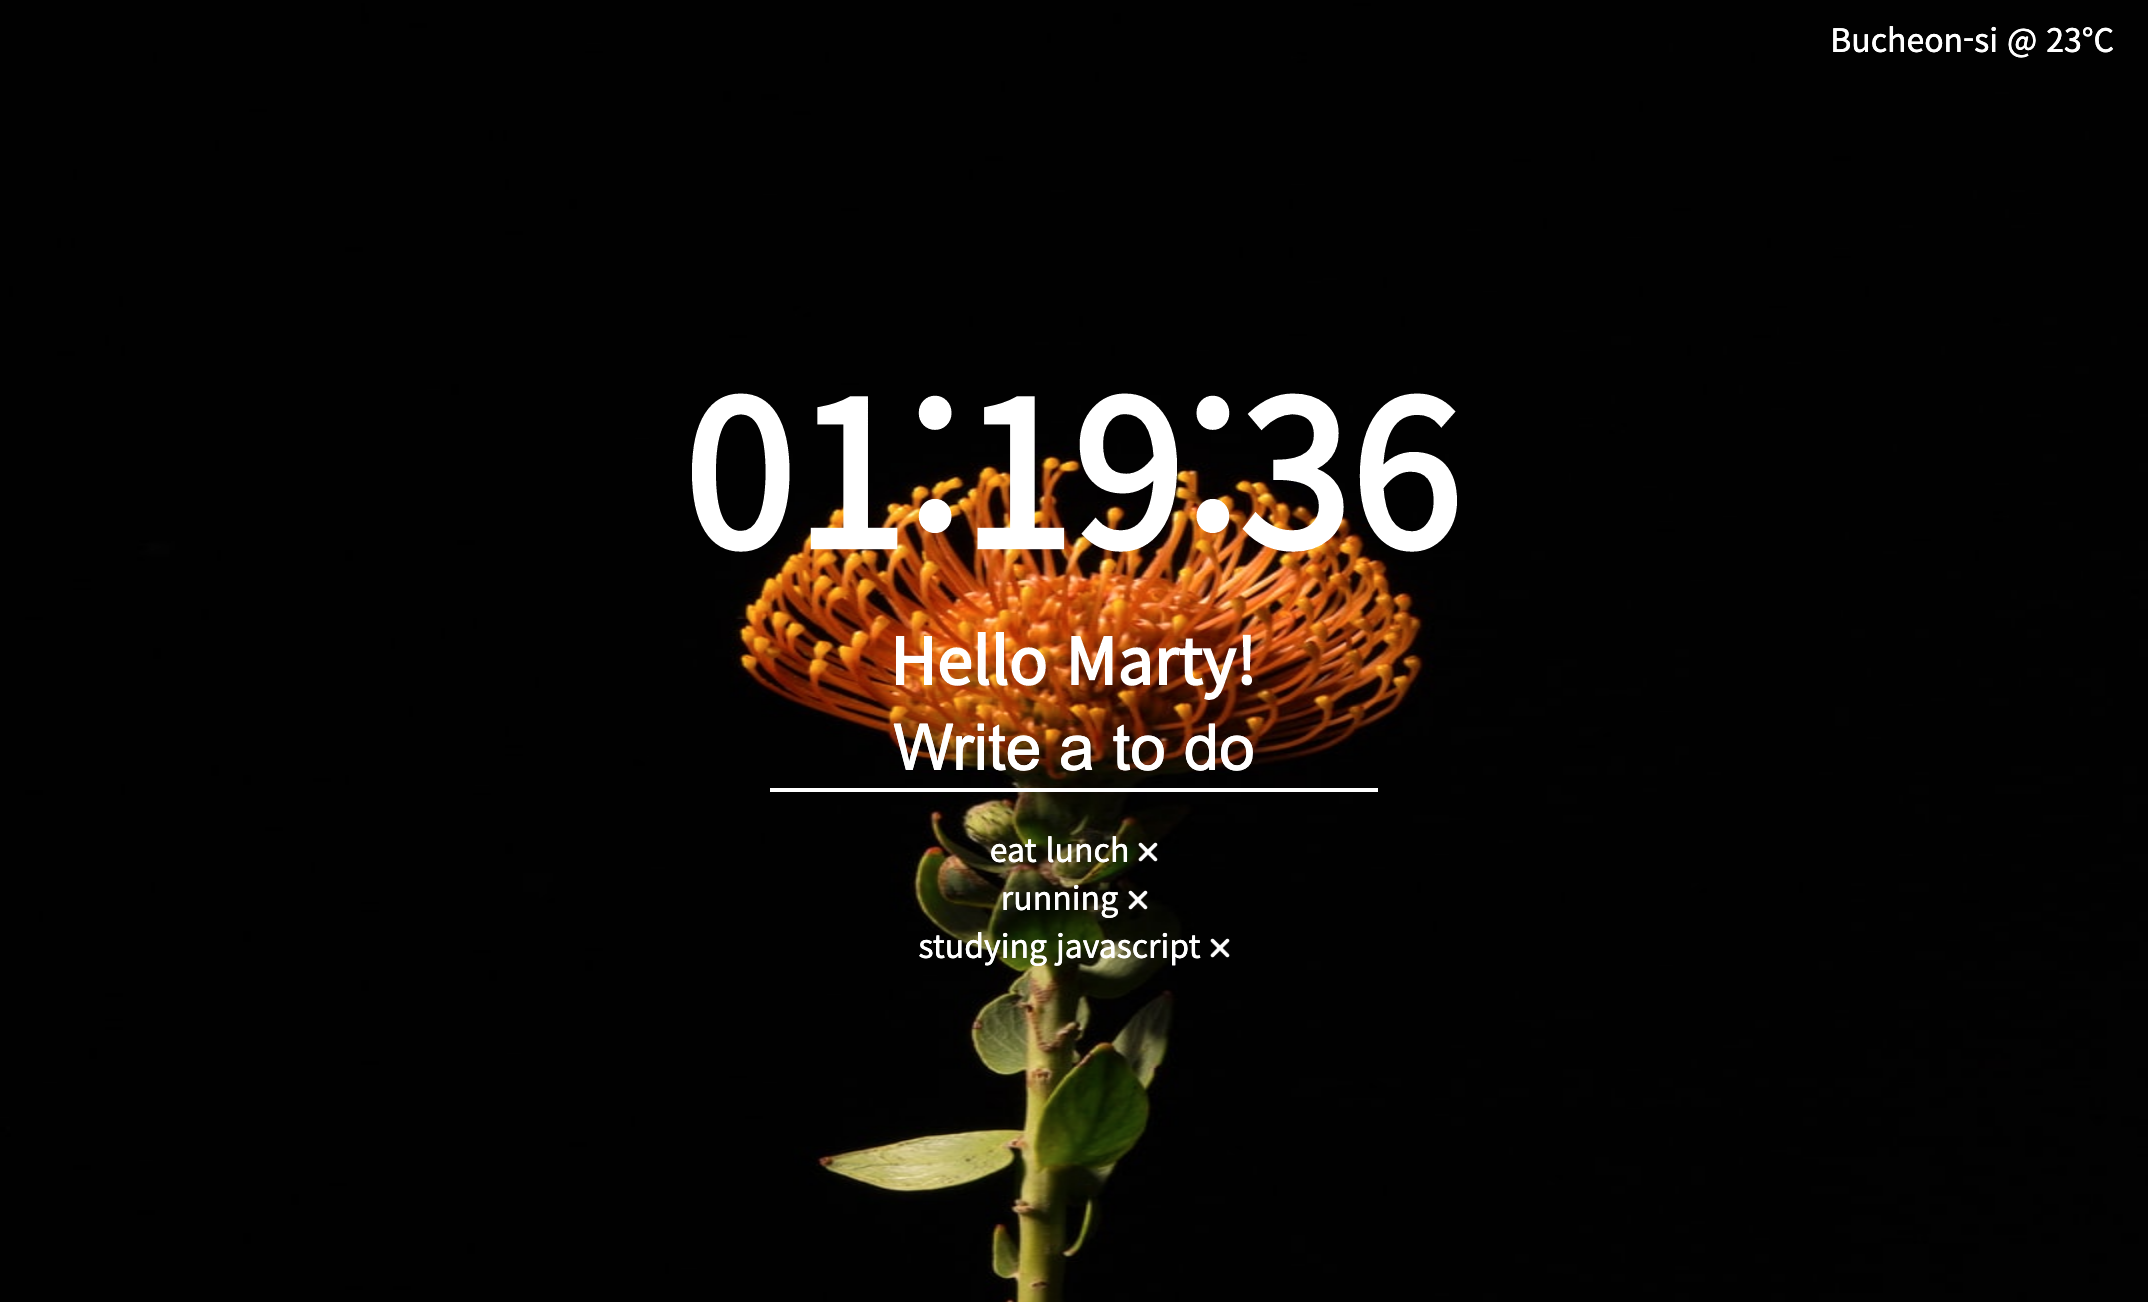
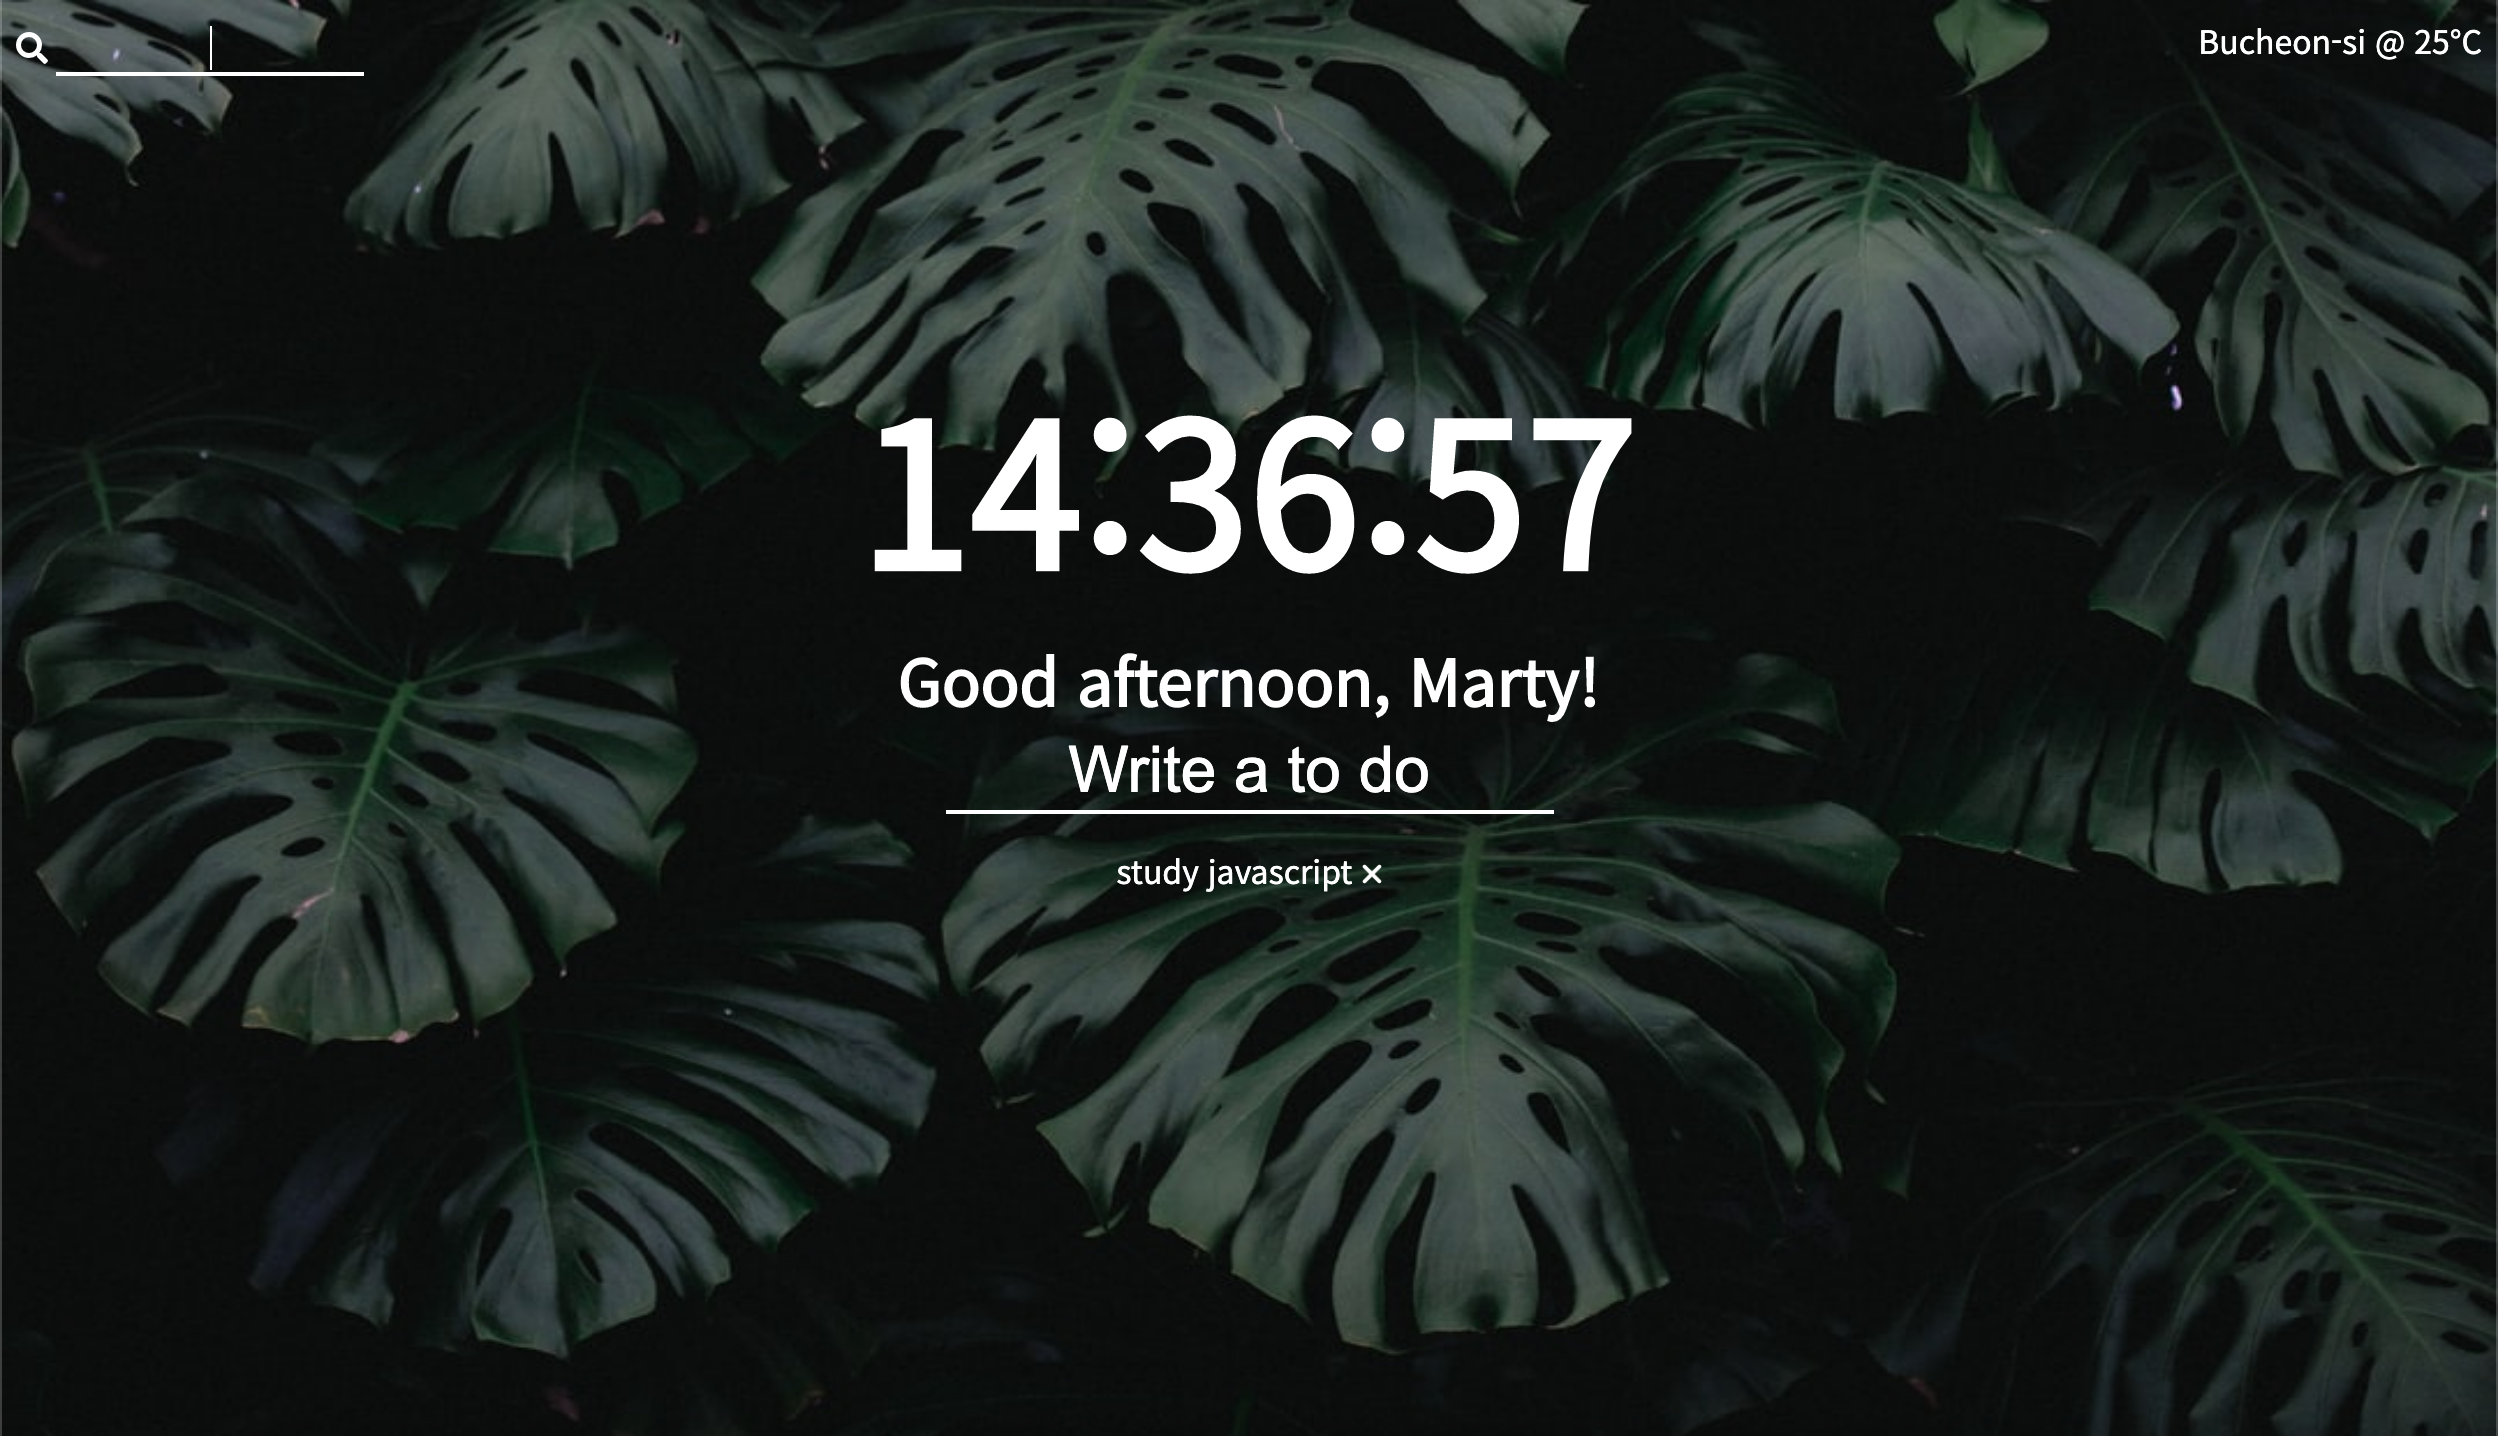
add search

diff --git a/js/search.js b/js/search.js
@@ -1,0 +1,79 @@
+const search = document.querySelector(".js-search"),
+      searchInput = search.querySelector("input"),
+      searchIcon = document.querySelector(".js-search-icon");
+     
+
+const OPACITY = "opacity",  
+     UN_OPACITY = "unopacity",
+     DO_OPACITY = "do_opacity";
+
+let  iconTarget; //다른 body 영역 클릭과 비교하기 위해서 삽입 , 여기에는 js-search-icon 태그가 들어감
+
+function handleSearch(event){
+    event.preventDefault(); 
+    const searchValue = searchInput.value;
+    location.href = `https://www.google.com/search?q=${searchValue}`; //search by google
+}
+
+function handleCloseSearch(event){
+
+    event.preventDefault();
+
+    let target = event.target;
+ 
+    if( iconTarget !== target && searchInput.classList.contains(DO_OPACITY)){
+
+        searchInput.classList.remove(DO_OPACITY);
+        searchInput.classList.add(OPACITY);
+
+    }
+           
+}
+
+
+function handleSearchBar(event){ //show textbox (opacity 0.4)
+
+    event.preventDefault(); 
+    searchInput.classList.remove(OPACITY);
+    searchInput.classList.add(UN_OPACITY);
+ 
+}
+
+function handleUnSearch(event){ //hide textbox
+
+    event.preventDefault(); 
+    searchInput.classList.remove(UN_OPACITY);
+    searchInput.classList.add(OPACITY);
+   
+}
+
+function handleClickSearch(event){ //click search icon (opacity : 1)
+
+    event.preventDefault();
+    searchInput.classList.remove(UN_OPACITY);
+    searchInput.classList.add(DO_OPACITY);
+    searchInput.focus();
+
+    iconTarget = event.currentTarget;
+
+
+}
+
+function searchData(){
+
+    searchIcon.addEventListener("mouseover", handleSearchBar);
+    searchIcon.addEventListener("mouseout", handleUnSearch);
+    searchIcon.addEventListener("click", handleClickSearch); 
+    
+    search.addEventListener("submit", handleSearch);
+    body.addEventListener("click", handleCloseSearch);
+
+}
+
+function init(){
+
+    searchData();
+
+}
+
+init();

diff --git a/index.html b/index.html
@@ -9,12 +9,26 @@
 
   
     <link href="https://fonts.googleapis.com/css2?family=Noto+Sans+KR&display=swap" rel="stylesheet">
+    <link rel="stylesheet" href="https://cdnjs.cloudflare.com/ajax/libs/font-awesome/5.8.2/css/all.min.css"/>
     <link rel="stylesheet" href="/css/style.css"/>
 
 </head>
 <body>
+    <div class="js-navi-box">
+        <div class="part1">   
+        <span>
+            <form class="js-search">
+                <i class="js-search-icon fas fa-search" style ="color: white;"></i>
+                <input type="text" class="js-search-bar opacity" autocomplete="off"/>
+             </form>
+            </span>
+        </div>
+        <div class ="part2">
+        <span class ="js-weather"></span>
+        </div>
+    </div>
 
-  <div class="main">
+  <div class="main">   
     <div class= "js-clock">
         <h1 class = "js-title"></h1>
     </div>
@@ -26,11 +40,12 @@
     <h4 class = "js-greetings greetings"></h4>	
     
     <form class ="js-toDoForm">
+     
         <input type="text" placeholder="Write a to do"/>
     </form>
     <ul class="js-toDoList"></ul>
 
-    <span class ="js-weather"></span>
+    
 </div>
 
 <script src="js/clock.js"></script>
@@ -38,6 +53,7 @@
 <script src="js/bg.js"></script> 
 <script src="js/todo.js"></script>
 <script src="js/weather.js"></script>
+<script src="js/search.js"></script>
 
 
 </body>

diff --git a/css/style.css b/css/style.css
@@ -43,7 +43,7 @@ button {
 
 .main{
     
-    margin-top: 160px;
+    padding-top: 160px;
 
 }
 
@@ -72,7 +72,73 @@ button {
     text-align: center;
 }
 
+/*search bar*/
+
+.js-navi-box{
+
+    display : flex;
+    float: left;
+    width : 100%;
+
+    
+}
+
+.js-search-icon {
+
+    cursor: pointer;
+}
+
+.part1{
+
+    width : 50%;
+    float: left;
+    
+}
+
+.part2{
+
+    width : 50%;
+    text-align: right;
+}
+
+.js-search input{
+
+    width: 150px;
+    padding-top: 4px;
+    background: 0;
+    border: 0;
+    border-bottom: 2px solid #fff;
+    color: #fff;
+    font-size : 20px;
+    font-weight: 500;
+    outline: 0;
+    text-align: center;
+    transition: border-color .2s ease;
+
+}
+
+.opacity {
+
+    opacity: 0;
+
+}
+
+.unopacity {
+
+    opacity: 0.4;
+}
+
+.do_opacity { /*클릭시 투명도 1*/
+
+    opacity: 1;
+
+}
+
+
+
+
 /*input box design*/
+
 
 .js-form input,
 .js-toDoForm input {
@@ -97,16 +163,7 @@ input::placeholder{
 
 }
 
-.js-weather{
 
-    position: absolute;
-    top: 10px;
-    right: 20px;
-
-
-
-
-}
 
 @keyframes fadeIn{
     from {

diff --git a/README.md b/README.md
@@ -7,6 +7,8 @@ chrome 웹 스토어에 있는 momentum을 vanilla js로 clone coding
 - [X] To Do list
 - [X] Background image (using unsplash api)
 - [X] Weather (using api)
+- [X] Search (Google)
+
 
 # Result
 
